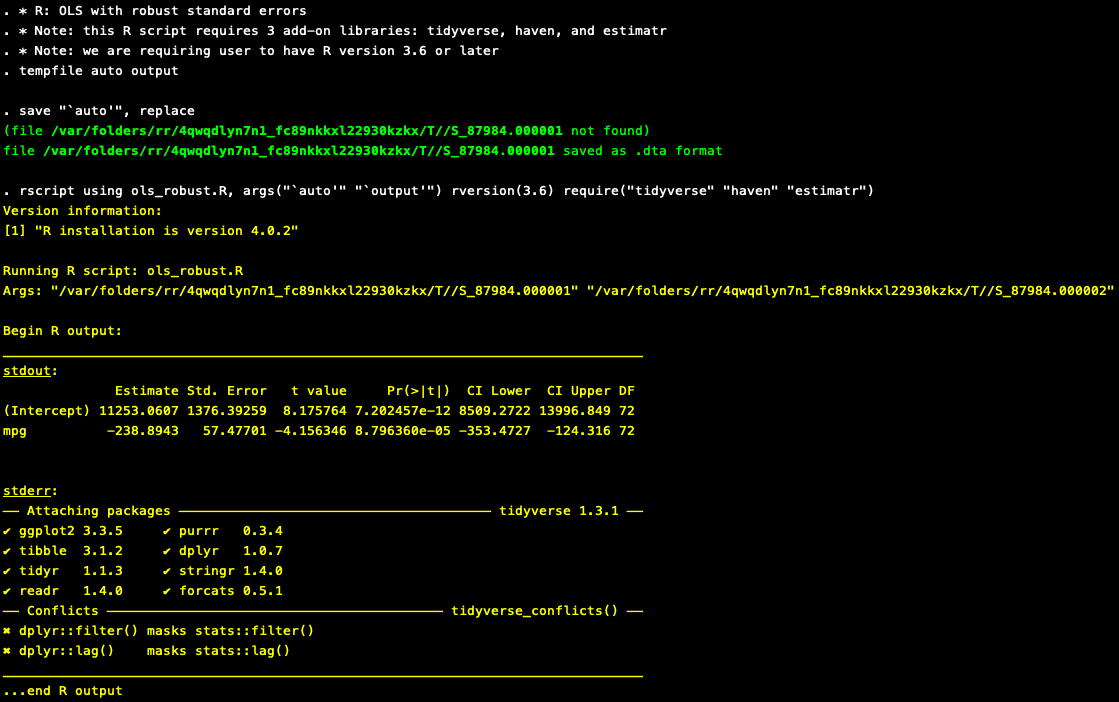
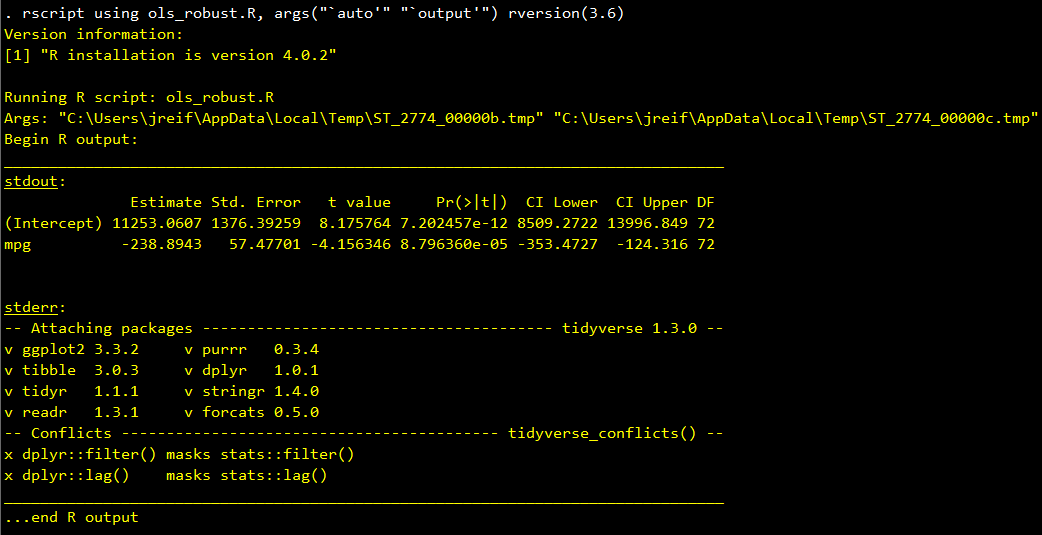
updated readme

diff --git a/README.md b/README.md
@@ -76,7 +76,7 @@ write_csv(tidy(ols), arg2)
 
 ## EOF
 ```
-Below is the Stata code that calls this R script. We specify options that instruct `rscript` to generate a break if the user's base R installation is less than 3.6 or if the user is missing the "tidyverse", "haven", or "estimatr" packages.
+Below is the Stata code that calls **ols_robust.R**. We use the `args()` option to feed it the two inputs it expects, and require the user's base R installation to be version 3.6 or higher by specifying the option `rversion(3.6)`:
 
 ```stata
 * Stata: OLS with robust standard errors
@@ -88,7 +88,7 @@ reg price mpg, robust
 * Note: we are requiring user to have R version 3.6 or later
 tempfile auto output
 save "`auto'", replace
-rscript using ols_robust.R, args("`auto'" "`output'") rversion(3.6) require(tidyverse haven estimatr)
+rscript using ols_robust.R, args("`auto'" "`output'") rversion(3.6)
 
 * Read in the R results
 insheet using "`output'", comma clear
